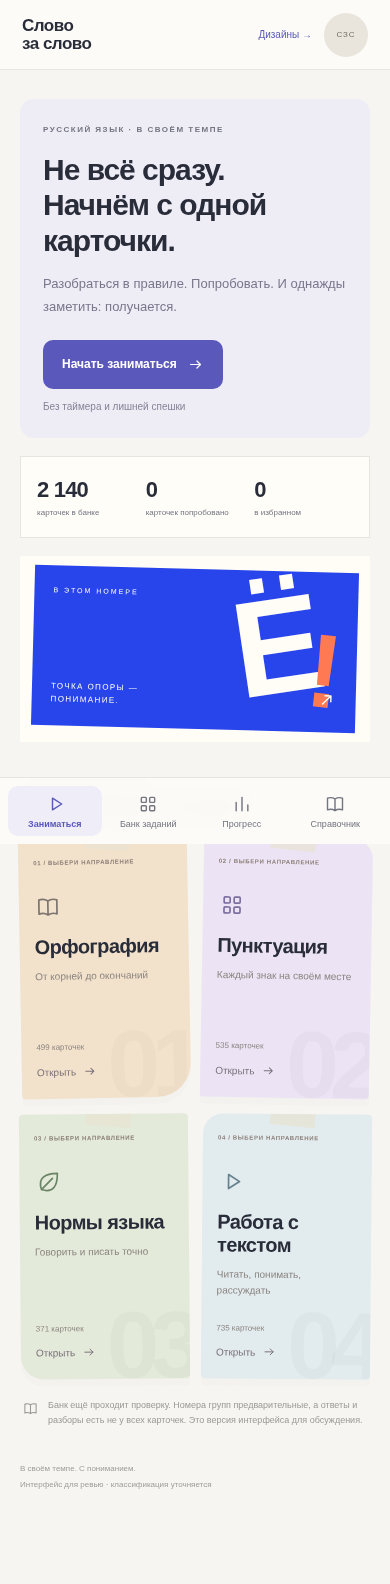
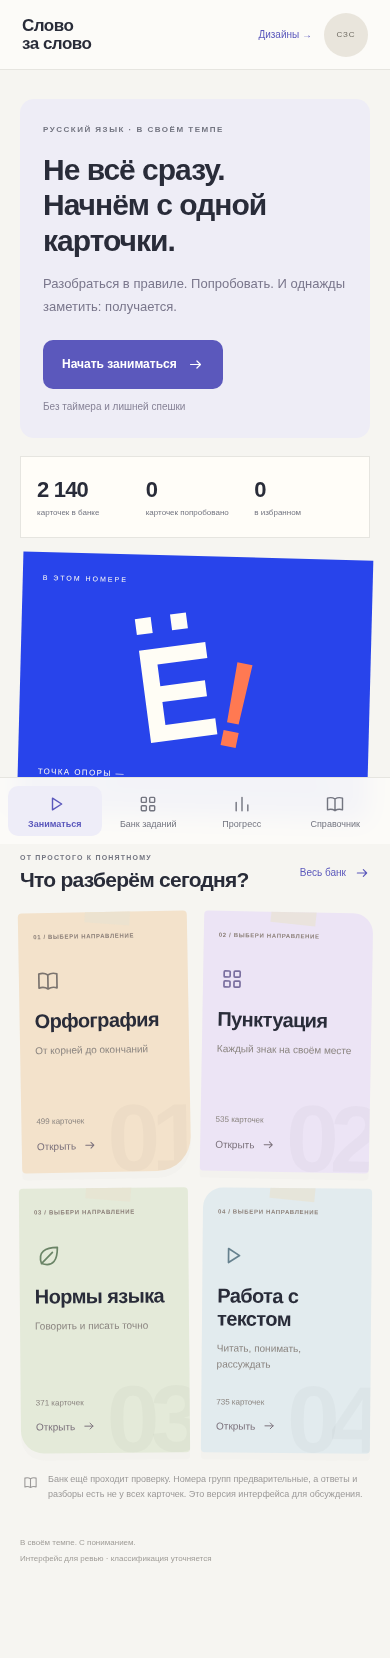
fix: separate poster lettering from captions and remove backing

diff --git a/html/js/app.js b/html/js/app.js
@@ -135,7 +135,7 @@ function renderStudy() {
       <section class="hero study-hero" aria-labelledby="hero-title">
         <div class="hero-copy"><span class="eyebrow">РУССКИЙ ЯЗЫК · В СВОЁМ ТЕМПЕ</span><h1 id="hero-title">Не всё сразу.<br>Начнём с одной карточки.</h1><p>Разобраться в правиле. Попробовать.<br> И однажды заметить: получается.</p><a class="button primary" href="#card/${candidate.id}">${store.lastCard ? "Продолжить занятие" : "Начать заниматься"} ${icon("arrow")}</a><span class="hero-meta">Без таймера и лишней спешки</span></div>
       </section>
-      <a class="study-poster" href="#card/${candidate.id}" aria-label="Начать практику с карточки"><div class="poster-face"><span class="poster-kicker">В ЭТОМ НОМЕРЕ</span><span class="poster-letter" aria-hidden="true">Ё<span>!</span></span><span class="poster-foot">ТОЧКА ОПОРЫ —<br>ПОНИМАНИЕ.</span><span class="poster-arrow">${icon("arrow")}</span></div></a>
+      <a class="study-poster" href="#card/${candidate.id}" aria-label="Начать практику с карточки"><div class="poster-face"><span class="poster-kicker">В ЭТОМ НОМЕРЕ</span><span class="poster-art" aria-hidden="true"><svg class="poster-glyph" viewBox="0 0 300 260" fill="none"><g fill="currentColor" transform="rotate(-9 130 130)"><path d="M62 18h27v27H62zM122 18h27v27h-27zM62 72h113v27H90v37h76v27H90v39h85v27H62z"/></g><g fill="#ff7952" transform="rotate(10 220 165)"><path d="M209 99h26l-3 103h-20zM209 216h26v26h-26z"/></g></svg></span><span class="poster-foot">ТОЧКА ОПОРЫ —<br>ПОНИМАНИЕ.</span><span class="poster-arrow">${icon("arrow")}</span></div></a>
       <section class="stat-strip" aria-label="Ваши результаты"><div>${icon("bank")}<span><strong>${num(catalog.cards.length)}</strong><small>карточек в банке</small></span></div><div>${icon("check")}<span><strong>${s.practiced.size}</strong><small>карточек попробовано</small></span></div><div>${icon("bookmark")}<span><strong>${catalog.cards.filter((c) => store.tags(c.id).fav).length}</strong><small>в избранном</small></span></div></section>
     </div>
     <section class="study-topics" aria-labelledby="topics-title"><div class="section-heading"><div><span class="eyebrow">ОТ ПРОСТОГО К ПОНЯТНОМУ</span><h2 id="topics-title">Что разберём сегодня?</h2></div><a class="text-link" href="#bank">Весь банк ${icon("arrow")}</a></div><div class="topic-grid topic-notes">${topics.map((t, i) => `<a class="topic-card topic-note ${t.color}" href="#bank?topic=${i}"><span class="note-tape" aria-hidden="true"></span><span class="eyebrow">${String(i + 1).padStart(2, "0")} / ВЫБЕРИ НАПРАВЛЕНИЕ</span><span class="topic-icon">${icon(t.icon)}</span><h3>${t.name}</h3><p>${t.detail}</p><span class="note-number" aria-hidden="true">${String(i + 1).padStart(2, "0")}</span><span class="note-bottom"><span class="topic-count">${num(topicCards(t).length)} карточек</span><span class="note-open">Открыть ${icon("arrow")}</span></span></a>`).join("")}</div></section>

diff --git a/html/css/app.css b/html/css/app.css
@@ -2800,8 +2800,8 @@ dialog form {
   grid-column: 2;
   grid-row: 1/3;
   min-width: 0;
-  background: #fffdf5;
-  padding: 16px;
+  background: transparent;
+  padding: 0;
   display: flex;
   align-items: stretch;
   min-height: 375px;
@@ -2813,10 +2813,10 @@ dialog form {
   transform: rotate(2.5deg);
   width: 100%;
   overflow: hidden;
-  min-height: 343px;
-  display: flex;
-  flex-direction: column;
-  justify-content: space-between;
+  min-height: 375px;
+  display: grid;
+  grid-template-rows: auto minmax(0, 1fr) auto;
+  gap: 20px;
   padding: 25px;
 }
 .poster-kicker {
@@ -2824,22 +2824,6 @@ dialog form {
   letter-spacing: 2px;
   position: relative;
   z-index: 1;
-}
-.poster-letter {
-  position: absolute;
-  left: 19px;
-  top: 4px;
-  font-size: 240px;
-  font-weight: 800;
-  letter-spacing: -25px;
-  line-height: 1.2;
-  transform: rotate(-10deg);
-}
-.poster-letter > span {
-  display: inline-block;
-  color: #ff7952;
-  font-size: 190px;
-  transform: rotate(15deg) translateY(20px);
 }
 .poster-foot {
   position: relative;
@@ -3025,14 +3009,6 @@ dialog form {
   .study-intro > .stat-strip .icon {
     width: 15px;
   }
-  .poster-letter {
-    font-size: 210px;
-    left: 10px;
-    top: 22px;
-  }
-  .poster-letter > span {
-    font-size: 160px;
-  }
   .topic-notes {
     grid-template-columns: repeat(2, minmax(0, 1fr));
   }
@@ -3075,23 +3051,14 @@ dialog form {
   .study-poster {
     grid-column: 1;
     grid-row: 3;
-    min-height: 180px;
-    padding: 13px;
+    min-height: 260px;
+    padding: 0;
   }
   .poster-face {
-    min-height: 160px;
-    padding: 19px;
+    min-height: 260px;
+    gap: 14px;
+    padding: 20px;
     transform: rotate(1.5deg);
-  }
-  .poster-letter {
-    font-size: 176px;
-    left: auto;
-    right: 40px;
-    top: -37px;
-    letter-spacing: -19px;
-  }
-  .poster-letter > span {
-    font-size: 130px;
   }
   .poster-kicker {
     font-size: 7px;
@@ -3198,14 +3165,15 @@ dialog form {
     font-size: 7px;
   }
 }
-@media (max-width: 760px) {
-  .study-poster .poster-letter {
-    font-size: 136px;
-    top: -7px;
-    right: 30px;
-    letter-spacing: -16px;
-  }
-  .study-poster .poster-letter > span {
-    font-size: 105px;
-  }
+
+.poster-art {
+  position: relative;
+  display: block;
+  min-height: 0;
+}
+.poster-art .poster-glyph {
+  position: absolute;
+  inset: 0;
+  width: 100%;
+  height: 100%;
 }

diff --git a/tests/composed_home_smoke.py b/tests/composed_home_smoke.py
@@ -29,6 +29,17 @@ def main():
                 page.set_viewport_size({'width': width, 'height': 1000 if width > 760 else 844})
                 page.goto(base, wait_until='networkidle')
                 assert page.locator('.study-poster').is_visible()
+                assert page.evaluate("""() => {
+                    const card = document.querySelector('.study-poster');
+                    const style = getComputedStyle(card);
+                    const title = document.querySelector('.poster-kicker');
+                    const art = document.querySelector('.poster-art');
+                    const footer = document.querySelector('.poster-foot');
+                    return style.backgroundColor === 'rgba(0, 0, 0, 0)' &&
+                        style.padding === '0px' &&
+                        title.offsetTop + title.offsetHeight <= art.offsetTop &&
+                        art.offsetTop + art.offsetHeight <= footer.offsetTop;
+                }"""), ('Poster frame or overlapping rows', width)
                 assert page.locator('.topic-note').count() == 4
                 assert page.locator('.stat-strip strong').nth(1).inner_text() == '0'
                 assert page.evaluate('document.documentElement.scrollWidth <= innerWidth'), width
